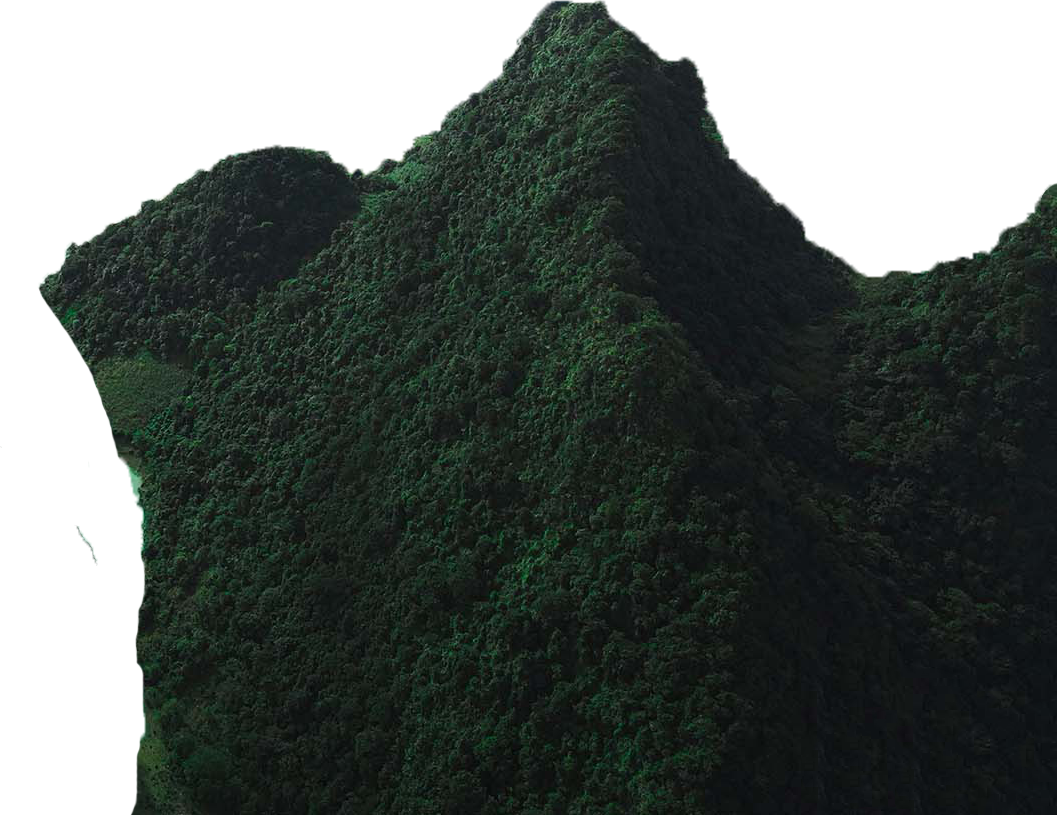
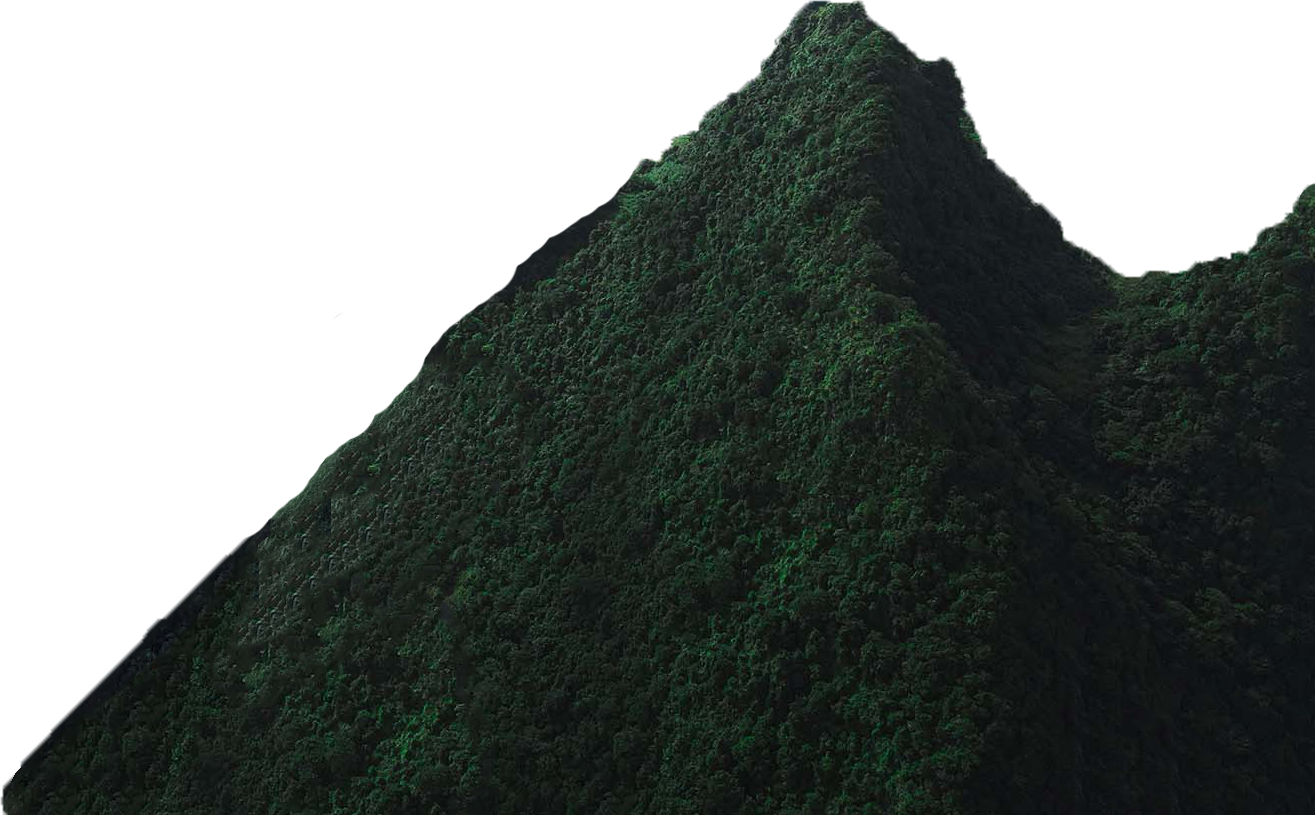
small adjust

diff --git a/Tour-De-Viet/src/data.js b/Tour-De-Viet/src/data.js
@@ -117,10 +117,10 @@ export const arr = [
         { src: f2_19, alt: "f2", rotation: "0",    speedx: "0.01",    speedy: "0.01",    speedz: "0.03",     w:'100%',z: '1',  ctop: 'calc(50% - 120px)', cleft: 'calc(50%)'},
         { src: f3_19, alt: "f3", rotation: "0",    speedx: "0.02",    speedy: "0.02",    speedz: "0.03",     w:'50%',z: '1',  ctop: 'calc(50% + 40px)', cleft: 'calc(50% - 270px)'},
         { src: f4_19, alt: "f4", rotation: "0",    speedx: "0.02",    speedy: "0.03",    speedz: "0.02",     w:'65%',z: '1',  ctop: 'calc(50% - 20px)', cleft: 'calc(50% + 280px)'},
-        { src: f5_19, alt: "f5", rotation: "0",    speedx: "0.03",    speedy: "0.04",    speedz: "0.02",     w:'40%',z: '1',  ctop: 'calc(50% + 120px)', cleft: 'calc(50% - 50px)'},
-        { src: f6_19, alt: "f6", rotation: "0",    speedx: "0.04",    speedy: "0.05",    speedz: "0.02",     w:'50%',z: '1',  ctop: 'calc(50% + 130px)', cleft: 'calc(50% + 405px)'},
-        { src: f7_19, alt: "f7", rotation: "0",    speedx: "0.03",    speedy: "0.06",    speedz: "0.02",     w:'50%',z: '1',  ctop: 'calc(50% + 130px)', cleft: 'calc(50% - 405px)'},
-    
+        { src: f5_19, alt: "f4", rotation: "0",    speedx: "0.03",    speedy: "0.04",    speedz: "0.02",     w:'40%',z: '1',  ctop: 'calc(50% + 120px)', cleft: 'calc(50% - 50px)'},
+        { src: f6_19, alt: "f5", rotation: "0",    speedx: "0.04",    speedy: "0.05",    speedz: "0.02",     w:'70%',z: '1',  ctop: 'calc(50% + 130px)', cleft: 'calc(50% + 230px)'},
+        { src: f7_19, alt: "f5", rotation: "0",    speedx: "0.03",    speedy: "0.06",    speedz: "0.02",     w:'50%',z: '1',  ctop: 'calc(50% + 130px)', cleft: 'calc(50% - 405px)'},
+
       ],
     
 

diff --git a/Tour-De-Viet/src/Parallax.jsx b/Tour-De-Viet/src/Parallax.jsx
@@ -17,7 +17,7 @@ export default function ParallaxPage() {
     { src: f3_19, alt: "f3", rotation: "0",    speedx: "0.02",    speedy: "0.02",    speedz: "0.03",     w:'50%',z: '1',  ctop: 'calc(50% + 40px)', cleft: 'calc(50% - 270px)'},
     { src: f4_19, alt: "f4", rotation: "0",    speedx: "0.02",    speedy: "0.03",    speedz: "0.02",     w:'65%',z: '1',  ctop: 'calc(50% - 20px)', cleft: 'calc(50% + 280px)'},
     { src: f5_19, alt: "f4", rotation: "0",    speedx: "0.03",    speedy: "0.04",    speedz: "0.02",     w:'40%',z: '1',  ctop: 'calc(50% + 120px)', cleft: 'calc(50% - 50px)'},
-    { src: f6_19, alt: "f5", rotation: "0",    speedx: "0.04",    speedy: "0.05",    speedz: "0.02",     w:'50%',z: '1',  ctop: 'calc(50% + 130px)', cleft: 'calc(50% + 405px)'},
+    { src: f6_19, alt: "f5", rotation: "0",    speedx: "0.04",    speedy: "0.05",    speedz: "0.02",     w:'70%',z: '1',  ctop: 'calc(50% + 130px)', cleft: 'calc(50% + 230px)'},
     { src: f7_19, alt: "f5", rotation: "0",    speedx: "0.03",    speedy: "0.06",    speedz: "0.02",     w:'50%',z: '1',  ctop: 'calc(50% + 130px)', cleft: 'calc(50% - 405px)'},
 
   ];
